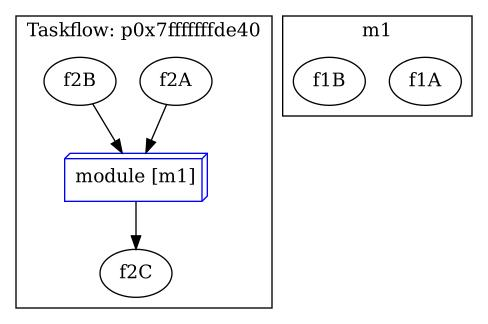
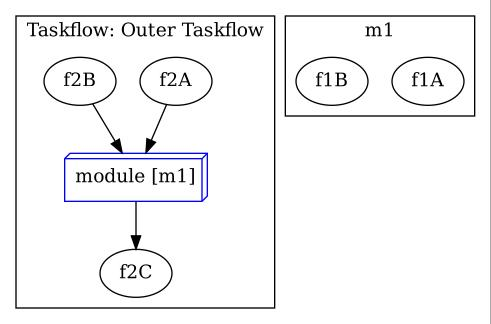
Add composite_task

diff --git a/Taskflow/composite_task.cpp b/Taskflow/composite_task.cpp
@@ -1,0 +1,31 @@
+// Project includes.
+#include "utils.h"
+
+// Taskflow includes.
+#include <taskflow/taskflow.hpp>
+
+// Standard library includes.
+#include <iostream>
+
+
+int main()
+{
+	tf::Taskflow f1, f2;
+
+	f1.name("Inner Taskflow");
+	f2.name("Outer Taskflow");
+
+	// create taskflow f1 of two tasks
+	tf::Task f1A = f1.emplace([]() { std::cout << "Task f1A\n"; }).name("f1A");
+	tf::Task f1B = f1.emplace([]() { std::cout << "Task f1B\n"; }).name("f1B");
+
+	// create taskflow f2 with one module task composed of f1
+	tf::Task f2A = f2.emplace([]() { std::cout << "Task f2A\n"; }).name("f2A");
+	tf::Task f2B = f2.emplace([]() { std::cout << "Task f2B\n"; }).name("f2B");
+	tf::Task f2C = f2.emplace([]() { std::cout << "Task f2C\n"; }).name("f2C");
+	tf::Task f1_module_task = f2.composed_of(f1).name("module");
+
+	f1_module_task.succeed(f2A, f2B).precede(f2C);
+
+	dumpToFile(f2, "composite_task.dot");
+}
